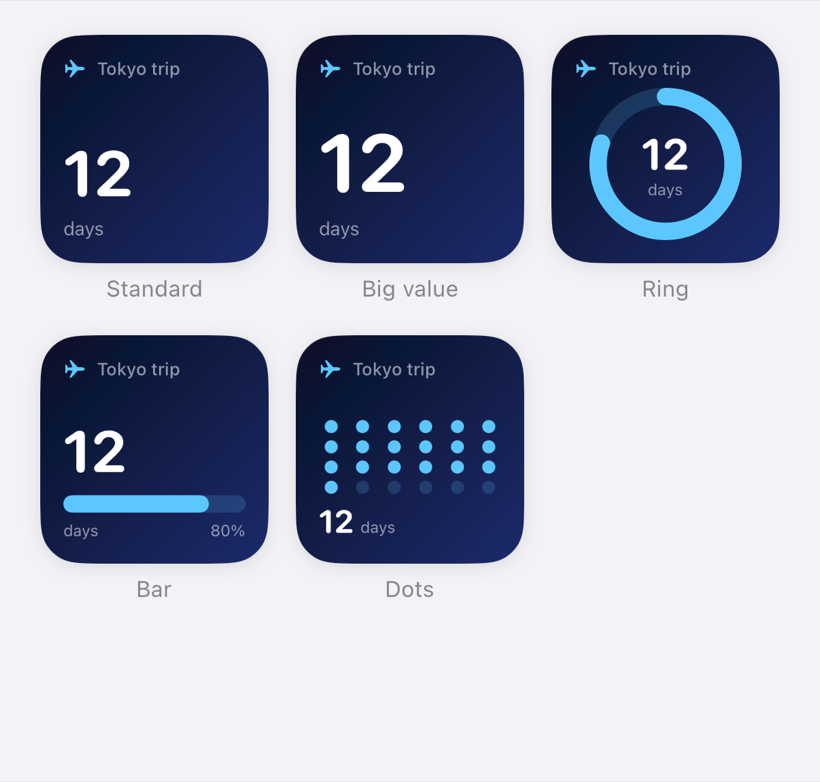
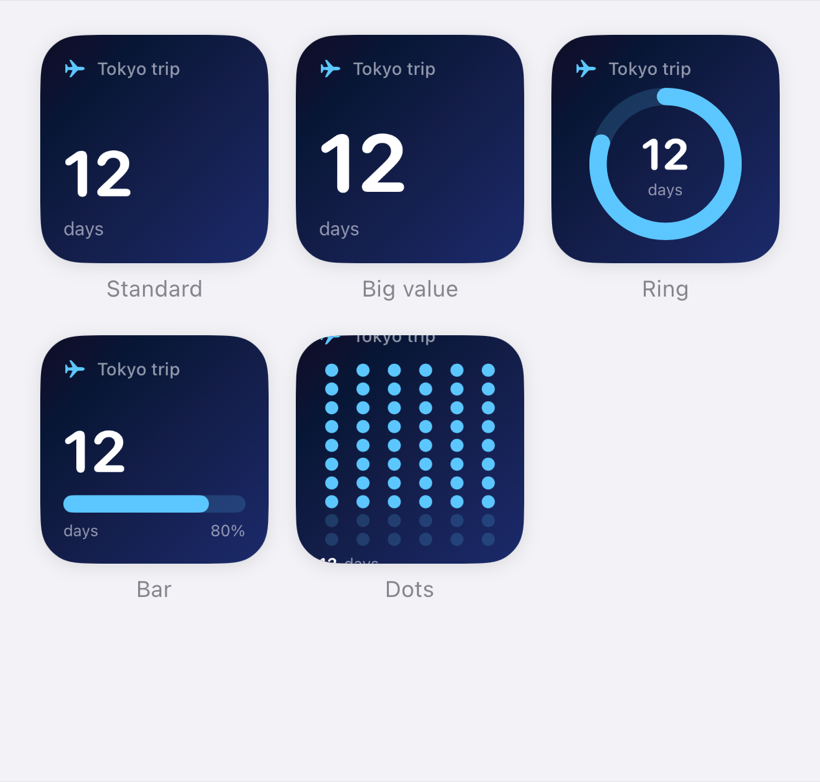
Site update 2026-09-10 22:58

Changed region(s): [[0.3963, 0.4297, 0.6098, 0.7059]]

diff --git a/index.html b/index.html
@@ -132,8 +132,9 @@
   </div>
   <div class="styles">
     <figure><img src="assets/styles-01-backgrounds.png" alt="The nine widget backgrounds: Automatic, Black, Paper, Midnight, Ocean, Sunset, Forest, Graphite and Rose" loading="lazy"><figcaption>Backgrounds. Automatic follows Light and Dark Mode; Black is made for StandBy.</figcaption></figure>
-    <figure><img src="assets/styles-02-layouts.png" alt="The five widget layouts: Standard, Big value, Ring, Bar and Dots" loading="lazy"><figcaption>Layouts. Ring, Bar and Dots draw the percentage when a slot has one.</figcaption></figure>
+    <figure><img src="assets/styles-02-layouts.png" alt="The five widget layouts: Standard, Big value, Ring, Bar and Dots" loading="lazy"><figcaption>Layouts. Ring and Bar draw the percentage; Dots count in whatever unit the slot is made of.</figcaption></figure>
     <figure><img src="assets/styles-03-typefaces.png" alt="The four typefaces: Rounded, Plain, Serif and Monospaced" loading="lazy"><figcaption>Typefaces. Rounded, Plain, Serif or Monospaced.</figcaption></figure>
+    <figure><img src="assets/styles-04-dots.png" alt="The Dots layout counting months of a year, days of a month, logged days of a streak, labels of a rotation and glasses of a goal" loading="lazy"><figcaption>Dots count in the slot's own unit: twelve months in a year, the days of this month, a month of a streak, the labels in a rotation, the glasses in a goal.</figcaption></figure>
   </div>
 </div></section>
 
